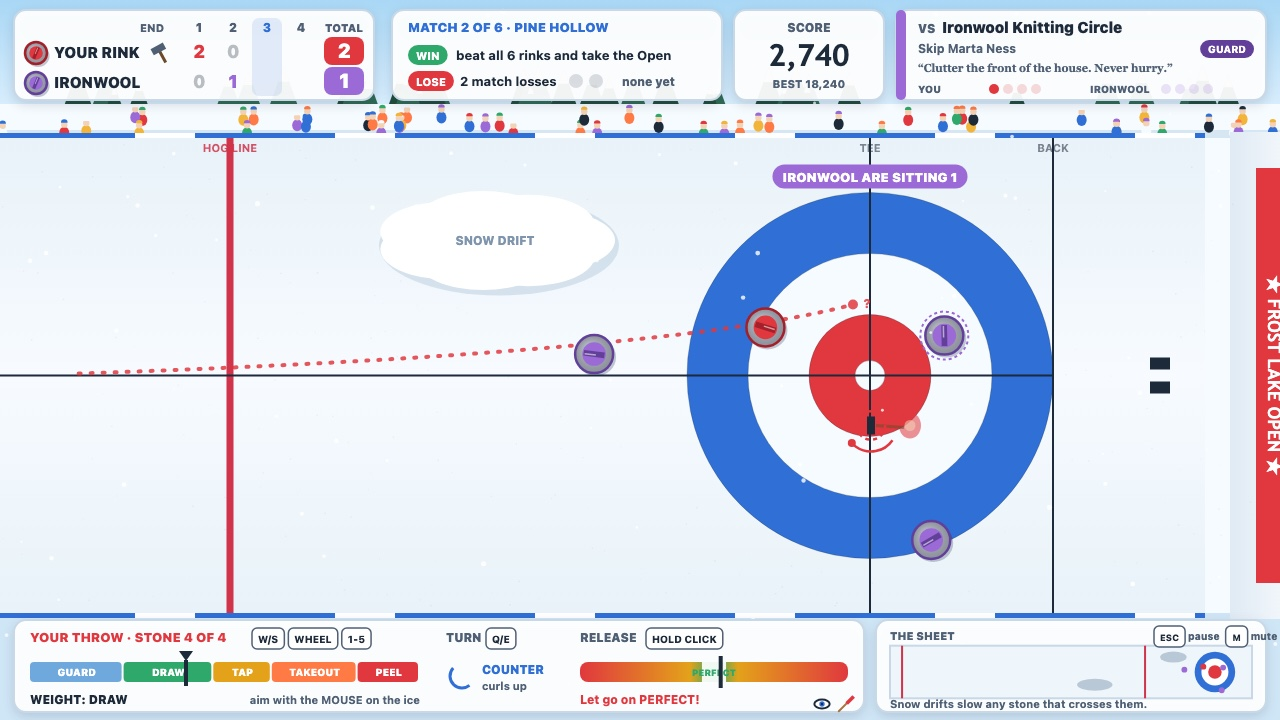
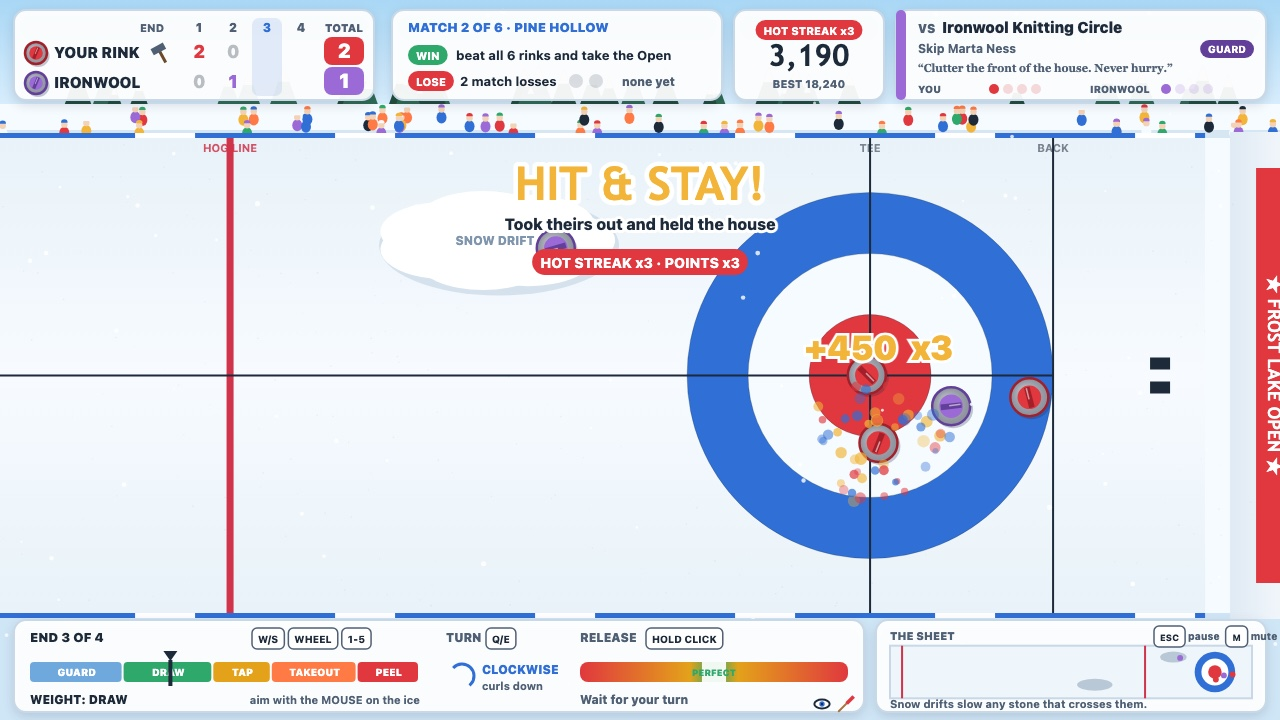
Hot streak multiplier, confetti on great shots, cover shot of a real hit-and-stay

diff --git a/game/src/shots.js b/game/src/shots.js
@@ -41,6 +41,7 @@ function winMatches(run, n) {
     m.stats.buttons = 1 + (i % 2);
     m.stats.pointsFor = 5;
     m.stats.pointsAgainst = 1;
+    m.stats.bestStreak = 2 + i;
     m.stats.bestCall = { text: i === 2 ? 'DOUBLE TAKEOUT!' : 'ON THE BUTTON!', points: i === 2 ? 250 : 200 };
     recordMatch(run, m);
     run.offer = null;
@@ -58,12 +59,15 @@ export function stageShot(game, shot, seed) {
   const run = createRun('club', 4000 + seed);
   game.run = run;
   if (shot === 'play') {
-    // Try a handful of seeded ends and keep the busiest house: the player holds the last stone.
+    // The cover: the moment after a big hit. Try seeded ends until the player's throw (thrown by
+    // the AI at a high skill, on a hot streak) clears stones from the house, then hold that frame.
+    const rank = (c) => (c.text.startsWith('TRIPLE') || c.text.startsWith('DOUBLE') ? 3 : c.text.startsWith('HIT') ? 2 : c.tone === 'great' ? 1 : 0);
     let best = null;
-    for (let k = 0; k < 10; k++) {
+    for (let k = 0; k < 60; k++) {
       const r = createRun('club', 4100 + seed * 31 + k);
       winMatches(r, 1);
       giveKit(r, ['birch', 'eye']);
+      r.score = 2740;
       const scene = createPlayScene(r);
       scene.intro = 0;
       const m = scene.match;
@@ -71,22 +75,19 @@ export function stageShot(game, shot, seed) {
       m.scores.player = [2, 0];
       m.scores.rival = [0, 1];
       m.end = 3;
-      for (let i = 0; i < 7; i++) autoThrow(scene, 0.8);
-      const live = m.stones.filter((st) => !st.out).length;
-      if (!best || live > best.live) best = { live, scene, run: r };
+      for (let i = 0; i < 5; i++) autoThrow(scene, 0.85);
+      m.streak = 2;
+      deliver(m, 'player', executeShot(chooseShot(m, 'player', m.rng), 0.97, 1, m.rng));
+      let guard = 0;
+      while (m.phase === 'running' && guard++ < 6000) updatePlay(scene, 1 / 60, quietInput);
+      if (!m.lastCall || m.phase !== 'settle') continue;
+      const score = rank(m.lastCall) * 3 + m.stones.length * 2;
+      if (!best || score > best.score) best = { score, rank: rank(m.lastCall), scene, run: r };
     }
     const { scene, run: r } = best;
     game.run = r;
-    r.score = 2740;
-    const m = scene.match;
-    scene.aim = { y: 0.5, weight: 0.4, turn: -1 };
-    m.phase = 'aim';
-    const aimInput = { ...quietInput, mouse: { x: 900, y: 138 + (0.5 + 2.375) * 100, down: false } };
-    updatePlay(scene, 1 / 60, aimInput);
-    scene.charging = true;
-    scene.needle = 0.05;
-    scene.fx.particles.length = 0;
-    m.lastCall = null;
+    // Hold the frame a third of a second after the call, while the confetti is still in the air.
+    for (let i = 0; i < 20; i++) updatePlay(scene, 1 / 60, quietInput);
     game.play = scene;
     game.mode = 'play';
     game.save = { best: 18240, trophies: 1, runs: 6, lastRuns: [] };

diff --git a/game/src/render/hud.js b/game/src/render/hud.js
@@ -1,7 +1,7 @@
 // The match HUD: scoreboard, the Open's win/lose line, rival card, the shot panel (weight, turn,
 // release needle, sweep), the full-sheet map, shot calls and the end summary.
 
-import { VIEW, SHEET, THROW, PALETTE, MATCH } from '../config.js';
+import { VIEW, SHEET, THROW, PALETTE, MATCH, SCORE } from '../config.js';
 import { TAU } from '../geometry.js';
 import { RIVALS } from '../rivals.js';
 import { currentTeam, stonesLeft, total } from '../match.js';
@@ -17,7 +17,7 @@ export function drawMatchHud(ctx, scene, time, best) {
   const m = scene.match;
   drawScoreboard(ctx, m);
   drawOpenStrip(ctx, scene.run, m);
-  drawScorePanel(ctx, scene.run, best);
+  drawScorePanel(ctx, scene.run, best, m);
   drawRivalCard(ctx, m);
   drawShotPanel(ctx, scene, time);
   drawSheetMap(ctx, m);
@@ -97,11 +97,15 @@ function drawOpenStrip(ctx, run, m) {
   text(ctx, run.losses ? `${run.losses} used` : 'none yet', x + 230, 86, { size: 12, weight: 800, color: run.losses ? PALETTE.bad : PALETTE.inkSoft });
 }
 
-function drawScorePanel(ctx, run, best) {
+function drawScorePanel(ctx, run, best, m) {
   const x = 734;
   const w = 150;
   panel(ctx, x, 10, w, 90);
-  text(ctx, 'SCORE', x + w / 2, 32, { size: 12, weight: 900, align: 'center', color: PALETTE.inkSoft });
+  if (m.streak >= 2) {
+    chip(ctx, `HOT STREAK x${Math.min(SCORE.streakMax, m.streak)}`, x + w / 2, 30, { align: 'center', fill: PALETTE.player, size: 11, h: 20 });
+  } else {
+    text(ctx, 'SCORE', x + w / 2, 32, { size: 12, weight: 900, align: 'center', color: PALETTE.inkSoft });
+  }
   text(ctx, formatScore(run.score), x + w / 2, 66, { size: 30, weight: 900, align: 'center', color: PALETTE.ink, font: FONT_TITLE });
   text(ctx, `BEST ${formatScore(Math.max(best, run.score))}`, x + w / 2, 88, { size: 11, weight: 800, align: 'center', color: PALETTE.inkSoft });
 }
@@ -287,6 +291,9 @@ function drawCall(ctx, call, m) {
   const who = call.team === 'player' ? '' : `${m.rival.short}: `;
   text(ctx, who + call.text, 0, 0, { size: 46, weight: 900, align: 'center', color: colour, outline: '#ffffff', outlineWidth: 10, font: FONT_TITLE });
   text(ctx, call.sub + (call.perfect ? ' · PERFECT RELEASE' : ''), 0, 30, { size: 16, weight: 800, align: 'center', color: PALETTE.ink, outline: '#ffffff', outlineWidth: 6 });
+  if (call.team === 'player' && call.streak > 1) {
+    chip(ctx, `HOT STREAK x${call.streak} · POINTS x${call.streak}`, 0, 62, { align: 'center', fill: PALETTE.player, size: 14, h: 26 });
+  }
   ctx.restore();
 }
 

diff --git a/game/src/match.js b/game/src/match.js
@@ -39,7 +39,8 @@ export function createMatch({ rival, venue, kit, difficulty, rng, ends = MATCH.e
     mittenReady: kit.mitten,
     perfect: false,
     events: [],
-    stats: { perfects: 0, calls: [], bestCall: null, takeouts: 0, buttons: 0, pointsFor: 0, pointsAgainst: 0, hogged: 0 },
+    stats: { perfects: 0, calls: [], bestCall: null, takeouts: 0, buttons: 0, pointsFor: 0, pointsAgainst: 0, hogged: 0, bestStreak: 0 },
+    streak: 0,             // the player's run of good shots in a row; it multiplies shot-call points
     winner: null,
     clock: 0,
   };
@@ -141,14 +142,19 @@ function finishThrow(m) {
     m.events.push({ type: 'hog', stone: s });
   }
   const call = callShot(m.before, m.stones, s.id, s.team);
-  m.lastCall = { ...call, team: s.team, t: 0, perfect: s.team === 'player' && m.perfect };
+  m.lastCall = { ...call, team: s.team, t: 0, perfect: s.team === 'player' && m.perfect, streak: 1 };
   if (s.team === 'player') {
+    // A hot streak: every good shot in a row raises the multiplier, up to x4; a poor one breaks it.
+    m.streak = call.tone === 'great' || call.tone === 'good' ? m.streak + 1 : 0;
+    const mult = Math.min(SCORE.streakMax, Math.max(1, m.streak));
+    m.lastCall.streak = mult;
+    m.stats.bestStreak = Math.max(m.stats.bestStreak, m.streak);
     m.stats.calls.push(call.text);
     if (!m.stats.bestCall || call.points > m.stats.bestCall.points) m.stats.bestCall = call;
     if (call.text.includes('TAKEOUT') || call.text.includes('HIT')) m.stats.takeouts++;
     if (call.text === 'ON THE BUTTON!') m.stats.buttons++;
     if (s.hogged) m.stats.hogged++;
-    m.events.push({ type: 'call', call, points: Math.round((call.points + (m.perfect ? SCORE.perfectRelease : 0)) * m.kit.scoreMul) });
+    m.events.push({ type: 'call', call, mult, points: Math.round((call.points + (m.perfect ? SCORE.perfectRelease : 0)) * m.kit.scoreMul * mult), x: s.x, y: s.y });
   } else {
     m.events.push({ type: 'rivalCall', call });
   }

diff --git a/game/src/scenes/play.js b/game/src/scenes/play.js
@@ -174,7 +174,17 @@ function consumeEvents(scene) {
       if (e.call.tone === 'great') sfx.cheer(1);
       else if (e.call.tone === 'bad') sfx.groan();
       else sfx.cheer(0.3);
-      if (e.points > 0) addFloater(scene.fx, 640, 238, `+${e.points}`, PALETTE.good, 26);
+      if (e.points > 0) {
+        const fx = e.x > -9 ? clamp(sx(scene.cam, e.x), 120, 1160) : 640;
+        const fy = e.y > -9 ? clamp(sy(e.y) - 72, 170, 560) : 300;
+        addFloater(scene.fx, fx, fy, e.mult > 1 ? `+${e.points}  x${e.mult}` : `+${e.points}`, e.mult > 1 ? PALETTE.gold : PALETTE.good, e.mult > 1 ? 34 : 26);
+        if (e.call.tone === 'great') {
+          // Confetti from the stands for a great shot: gold, red and blue flakes over the stone.
+          for (const color of [PALETTE.gold, PALETTE.player, PALETTE.accent]) {
+            spawnBurst(scene.fx, fx, fy + 72, { count: 18, color, speed: 280, life: 1.3, size: 5, drag: 1.6 });
+          }
+        }
+      }
     } else if (e.type === 'rivalCall') {
       if (e.call.tone === 'great') sfx.groan();
     } else if (e.type === 'endScored') {

diff --git a/game/src/tournament.js b/game/src/tournament.js
@@ -25,7 +25,7 @@ export function createRun(difficulty, seed) {
     score: 0,
     offer: null,
     outcome: null,      // 'champion' | 'eliminated'
-    stats: { perfects: 0, takeouts: 0, buttons: 0, pointsFor: 0, pointsAgainst: 0, endsWon: 0, ends: 0, bestCall: null, hogged: 0 },
+    stats: { perfects: 0, takeouts: 0, buttons: 0, pointsFor: 0, pointsAgainst: 0, endsWon: 0, ends: 0, bestCall: null, hogged: 0, bestStreak: 0 },
   };
 }
 
@@ -48,6 +48,7 @@ export function recordMatch(run, match) {
   s.pointsFor += ms.pointsFor;
   s.pointsAgainst += ms.pointsAgainst;
   s.hogged += ms.hogged;
+  s.bestStreak = Math.max(s.bestStreak ?? 0, ms.bestStreak ?? 0);
   s.ends += match.scores.player.length;
   s.endsWon += match.scores.player.filter((x) => x > 0).length;
   if (ms.bestCall && (!s.bestCall || ms.bestCall.points > s.bestCall.points)) s.bestCall = ms.bestCall;

diff --git a/game/src/render/matchView.js b/game/src/render/matchView.js
@@ -24,7 +24,8 @@ export function drawMatch(ctx, scene, time, best) {
     drawSkipBroom(ctx, scene.cam, Math.sin(time * 1.3) * 0.5, 1, m.rival.colour, time);
   }
   drawStones(ctx, scene.cam, m, time);
-  if (m.phase === 'aim' || m.phase === 'settle') drawSitting(ctx, scene.cam, countEnd(m.stones), m.rival);
+  const calling = m.phase === 'settle' && m.lastCall && m.lastCall.t < 1.6;
+  if (m.phase === 'aim' || (m.phase === 'settle' && !calling)) drawSitting(ctx, scene.cam, countEnd(m.stones), m.rival);
   if (m.phase === 'endScore' && m.endResult?.team) {
     drawCounting(ctx, scene.cam, m.endResult.counting, teamColours(m.endResult.team, m.rival)[0], m.endResult.t);
   }

diff --git a/game/src/render/screens.js b/game/src/render/screens.js
@@ -306,7 +306,7 @@ export function drawResults(ctx, state, time, run, saveInfo) {
     ['PERFECT RELEASES', String(s.perfects), PALETTE.good],
     ['TAKEOUTS', String(s.takeouts), '#ff7a45'],
     ['ON THE BUTTON', String(s.buttons), PALETTE.gold],
-    ['HOGGED', String(s.hogged), '#7f95ad'],
+    ['BEST STREAK', `x${Math.min(4, Math.max(1, s.bestStreak ?? 0))}`, '#7f95ad'],
     ['BEST SHOT', s.bestCall ? s.bestCall.text.replace('!', '') : '—', PALETTE.ink],
   ];
   tiles.forEach(([label, value, col], i) => {

diff --git a/game/src/config.js b/game/src/config.js
@@ -79,4 +79,5 @@ export const SCORE = {
   matchWin: 600,
   champion: 3000,
   perfectRelease: 25,
+  streakMax: 4,
 };

diff --git a/README.md b/README.md
@@ -11,6 +11,7 @@ Climb the Frost Lake Open: six rival rinks, each with its own style (draw, guard
 - Real stone physics: friction, curl that grows as the stone slows, sweeping, collisions, the hog rule.
 - Rival skips that read the ice: they list candidate shots, simulate each one with the same physics, and play the best for their style.
 - Three difficulties, 14 kit upgrades, shot calls (Double Takeout! Freeze! On the Button!), end scoring with the hammer, and a results card with a grade.
+- Hot streaks: every good shot in a row raises a points multiplier up to x4, with confetti from the stands on the great ones; one poor shot breaks it.
 - No libraries, no images, no network: canvas drawing and Web Audio synthesis only.
 
 ## Run it
